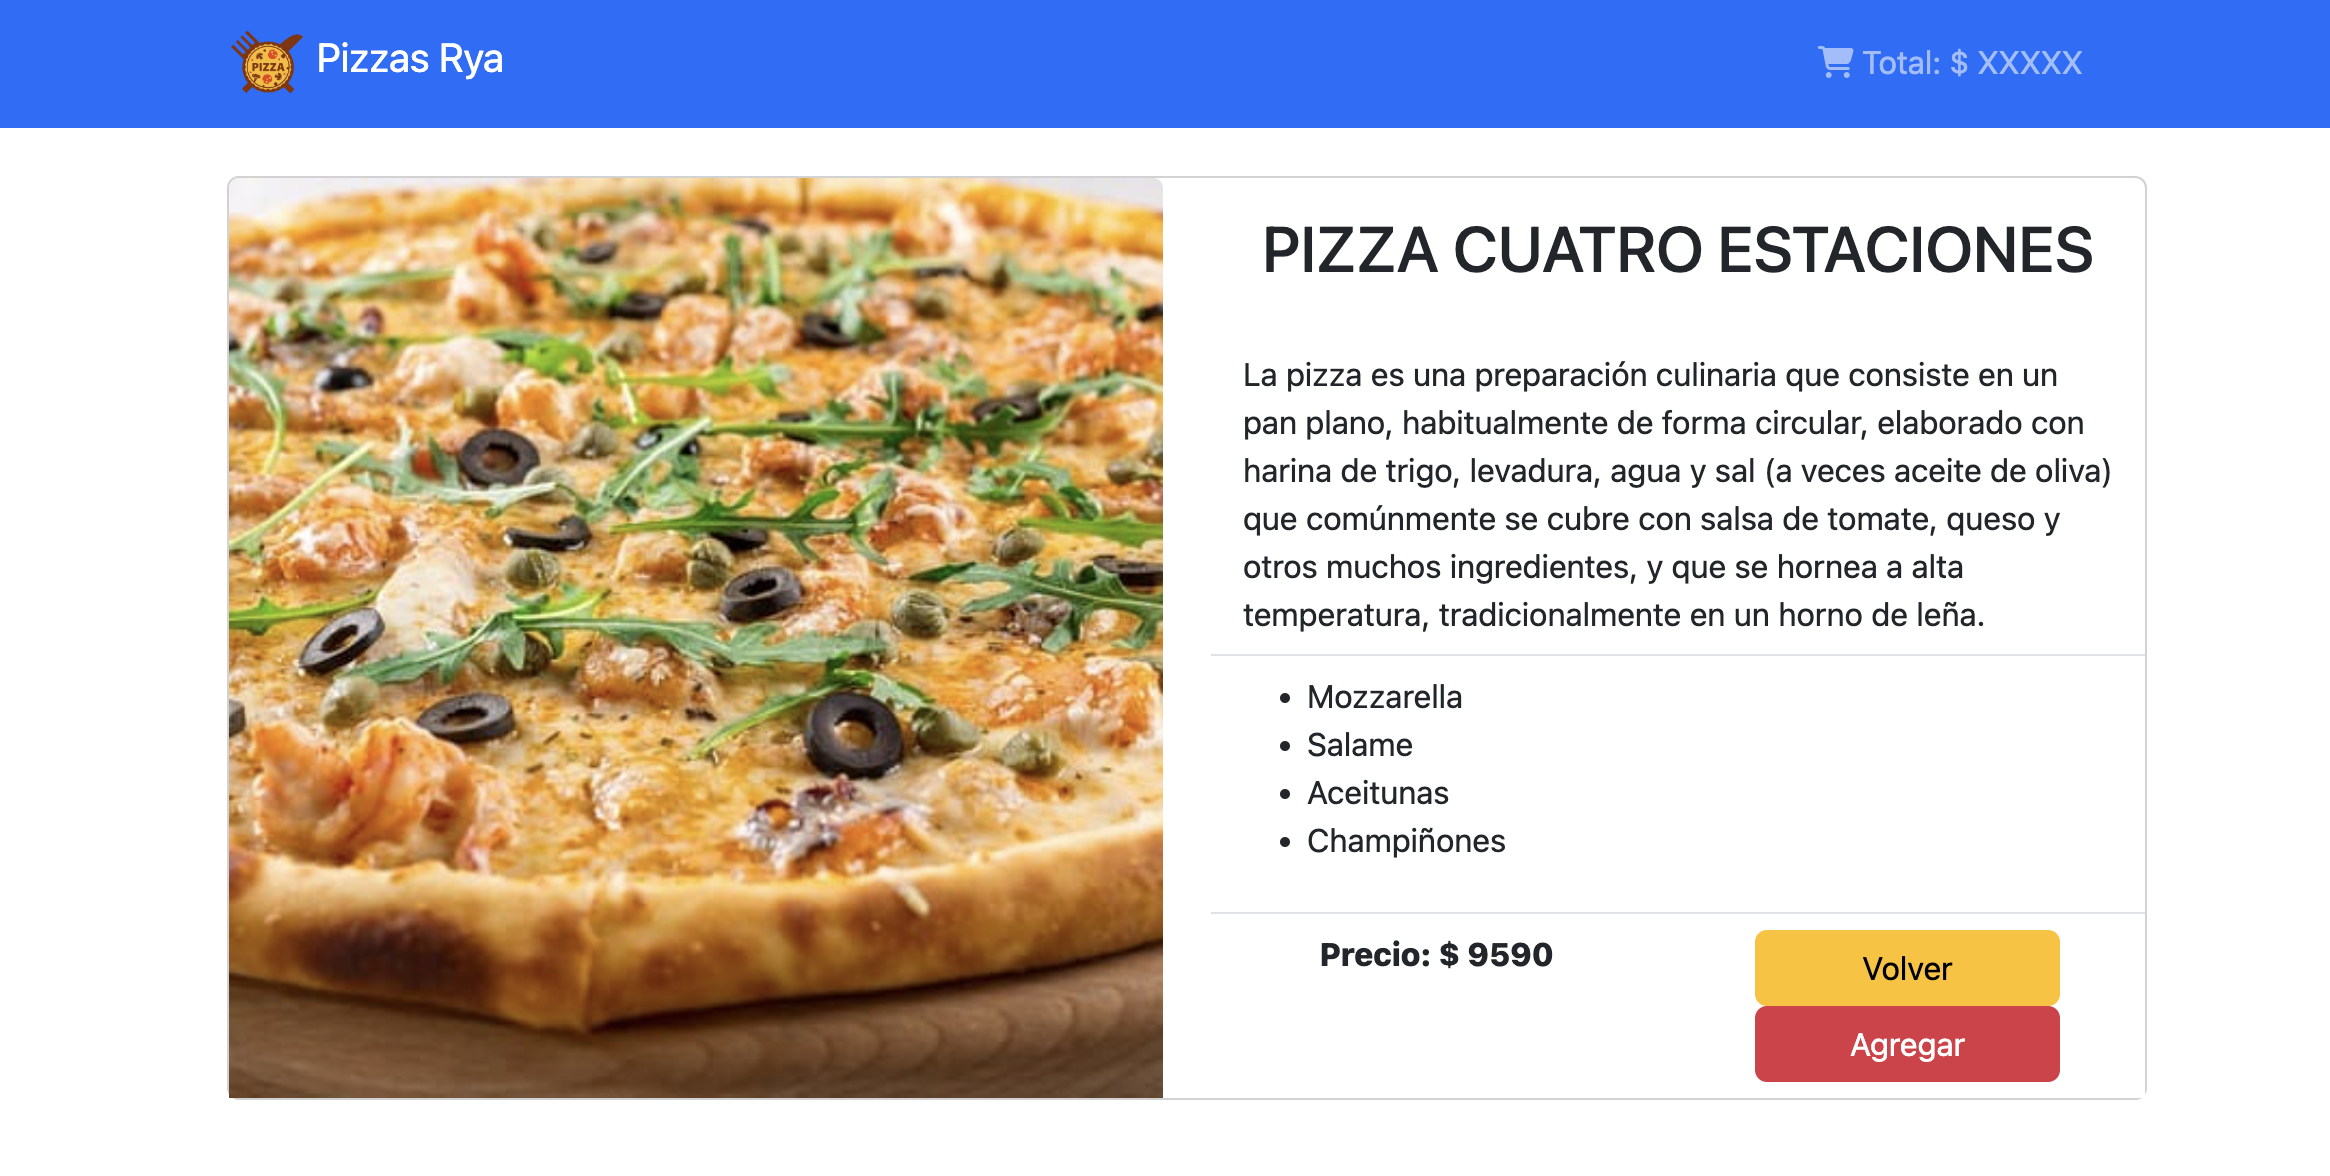
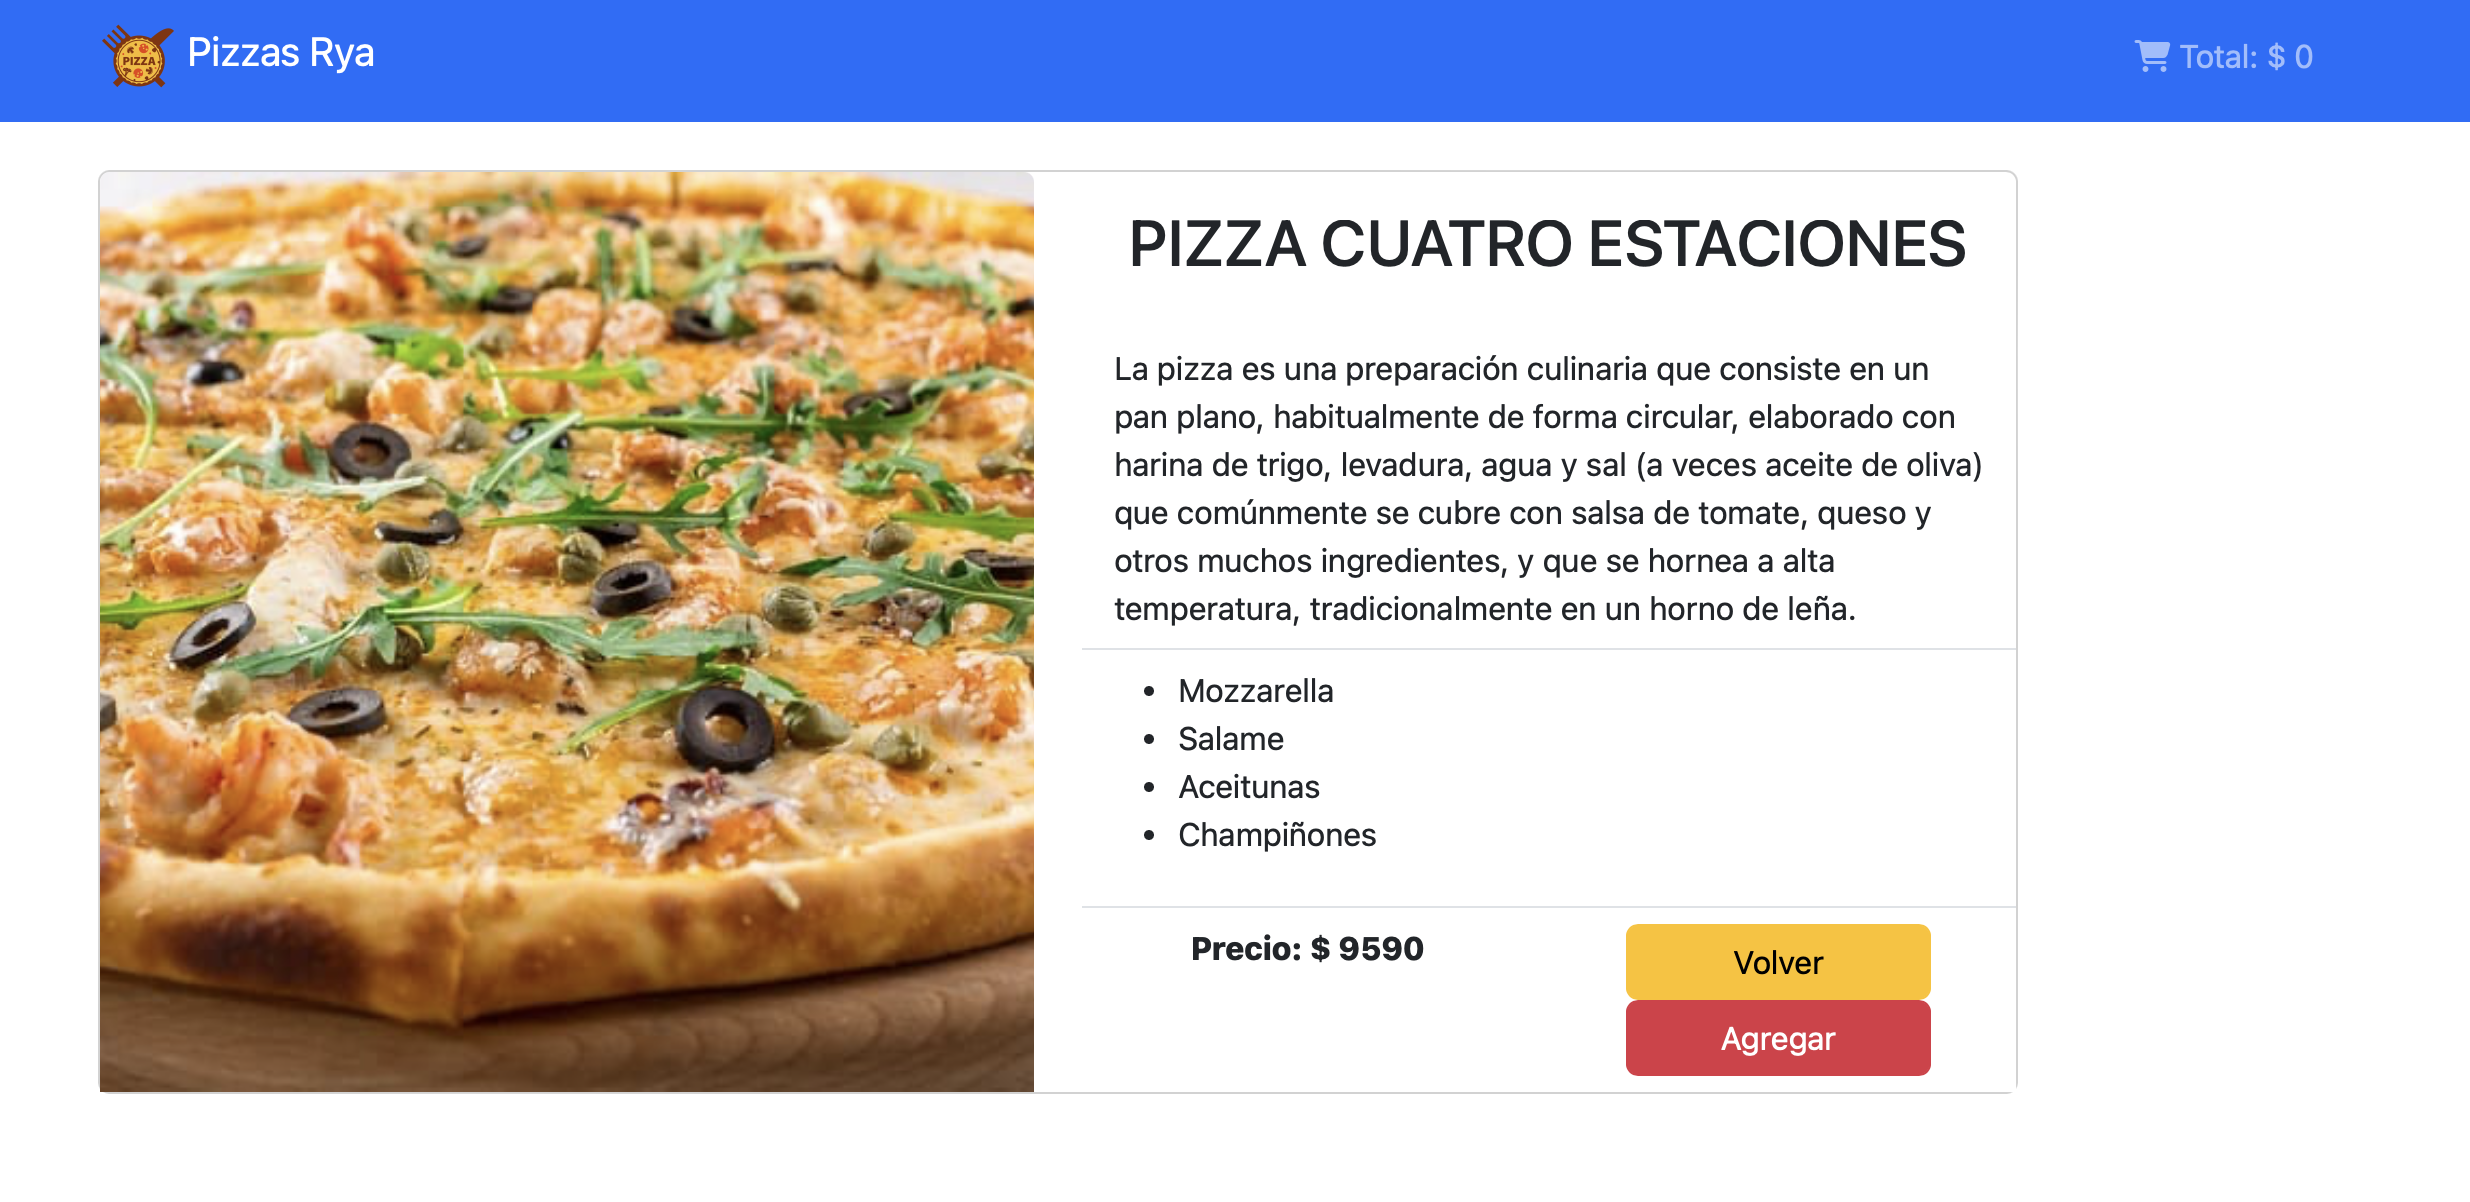
add: se agrega a Carro la logica de del code con if para verificar si esta vacio o con elementos al comprar

diff --git a/src/views/Carrito.jsx b/src/views/Carrito.jsx
@@ -1,6 +1,47 @@
+import { useContext } from 'react'
+import { PizzaContext } from '../contexts/PizzaContext'
+import { Link } from 'react-router-dom'
+
 const Carrito = () => {
+  const { carroPizzas, total, addPizza, removePizza } = useContext(PizzaContext)
+
+  let contenido
+
+  if (total === 0) {
+    contenido = (
+      <div className='container-fluid col-7'>
+        <div className='mt-5 p-5 bg-light-subtle border d-flex flex-row align-items-center'>
+          <img src='../src/assets/images/logo-pizza.png' height='200' alt='Imagen carro vacío' />
+          <div className='d-flex flex-column'>
+            <h3>Aún no has agregado alguna pizza</h3>
+            <h5 className='pb-4'>Revisa nuestras variedades y selecciona una</h5>
+            <Link to='/' className='btn btn-warning col-4 me-auto ms-auto'>
+              Volver a inicio
+            </Link>
+          </div>
+        </div>
+      </div>
+    )
+  } else {
+    contenido = (
+      <div className='container-fluid col-7'>
+        <h2>Tu carrito de compras:</h2>
+        {carroPizzas.map((pizza) => (
+          <div key={pizza.id}>
+            <p>{pizza.nombre} - Cantidad: {pizza.cantidad}</p>
+            <button onClick={() => addPizza(pizza.id)}>Agregar</button>
+            <button onClick={() => removePizza(pizza.id)}>Quitar</button>
+          </div>
+        ))}
+        <p>Total: ${total}</p>
+      </div>
+    )
+  }
+
   return (
-    <div>Carrito</div>
+    <div>
+      {contenido}
+    </div>
   )
 }
 

diff --git a/src/views/Pizza.jsx b/src/views/Pizza.jsx
@@ -43,7 +43,6 @@ const Pizza = () => {
                 <div className='row justify-content-around'>
                   <div className='col-4 active'>
                     Precio: $ {selectedPizza.price}
-                    cantidad {selectedPizza.cantidad}
                   </div>
                   <div className='col-4'>
                     <div className='row'>

diff --git a/README.md b/README.md
@@ -10,5 +10,8 @@ La aplicación debe incluir un carrito y una vista de detalle por cada pizza sel
 Para la estética de esta aplicación contará con algunas imágenes de referencia, sin embargo, el diseño quedará a su criterio siempre y cuando cumpla con los requerimientos.
 
 ## Imagenes
-![Imagen del Home](src/assets/readme/Home.png)
-![Imagen de Pizza al detalle](src/assets/readme/InfoPizza.png)
+![Imagen del Home](src/assets/readme/inicio.png)
+![Imagen de Pizza al detalle](src/assets/readme/infoPizza.png)
+![Imagen del Carro de Compras](src/assets/readme/inicio.png)
+![Imagen del Carro Vacio](src/assets/readme/carroVacio.png)
+![Imagen del error 404](src/assets/readme/404.png)
